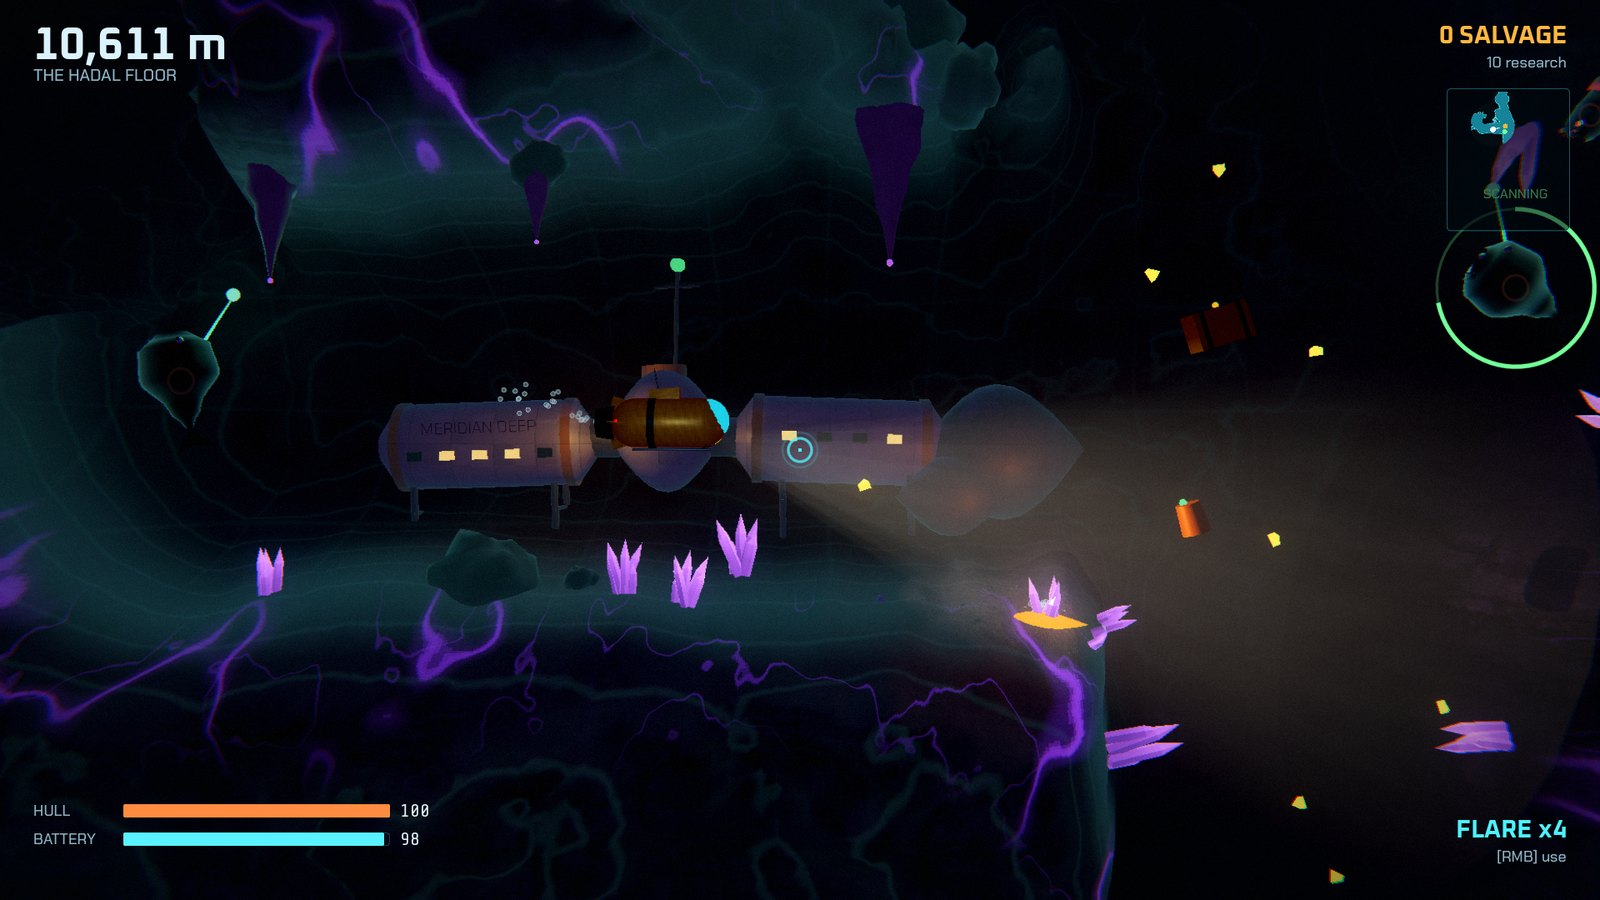
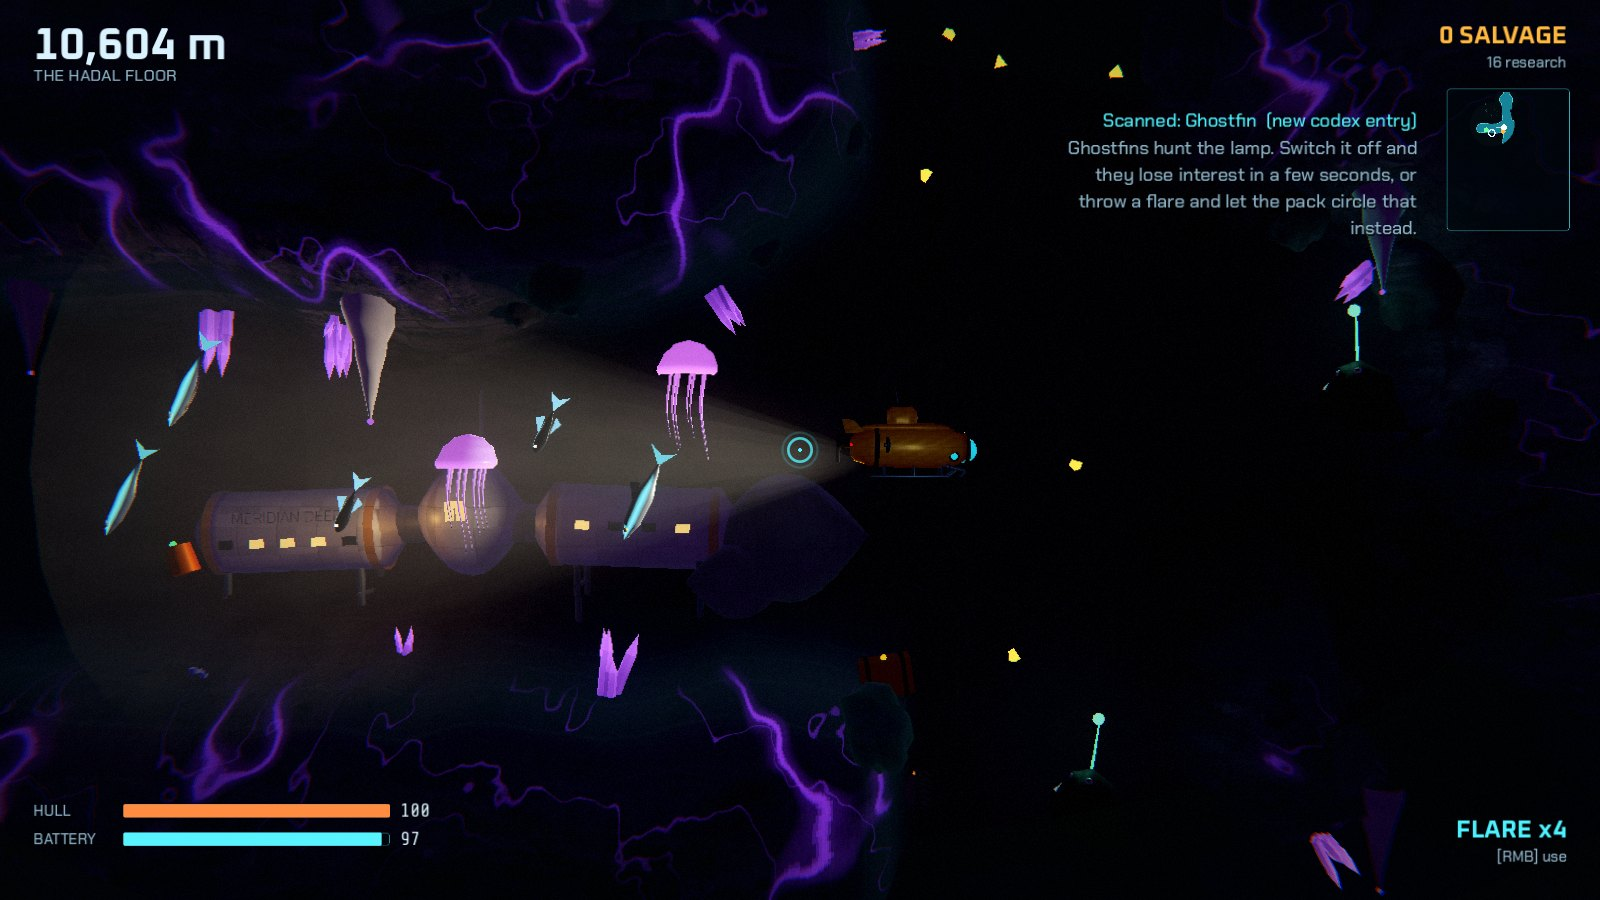
README: the station screenshot shows its audience
Claude-Session: https://claude.ai/code/session_013f4Y4Ypwt8AfTsFWrD4nrZ

diff --git a/README.md b/README.md
@@ -18,7 +18,7 @@ singing at the bottom of the world.
 | ![The Choir](docs/screenshots/choir.jpg) | ![Decompression stop](docs/screenshots/stop.jpg) |
 | ![The Ironclad, its shell cracked by an eruption](docs/screenshots/ironclad.jpg) | ![A whale fall](docs/screenshots/whale.jpg) |
 | ![A new chamber opens in the Hadal Trench where there was solid rock](docs/screenshots/trench.jpg) | ![Vasquez's drone, sealed into the rock](docs/screenshots/drone.jpg) |
-| ![The ruins of Meridian Deep](docs/screenshots/station.jpg) | ![Sound cues](docs/screenshots/cues.jpg) |
+| ![The ruins of Meridian Deep, and the audience hanging over them](docs/screenshots/station.jpg) | ![Sound cues](docs/screenshots/cues.jpg) |
 | ![Title screen](docs/screenshots/title.jpg) | ![Hangar](docs/screenshots/hangar.jpg) |
 
 ## Quick start (Windows 10/11)
